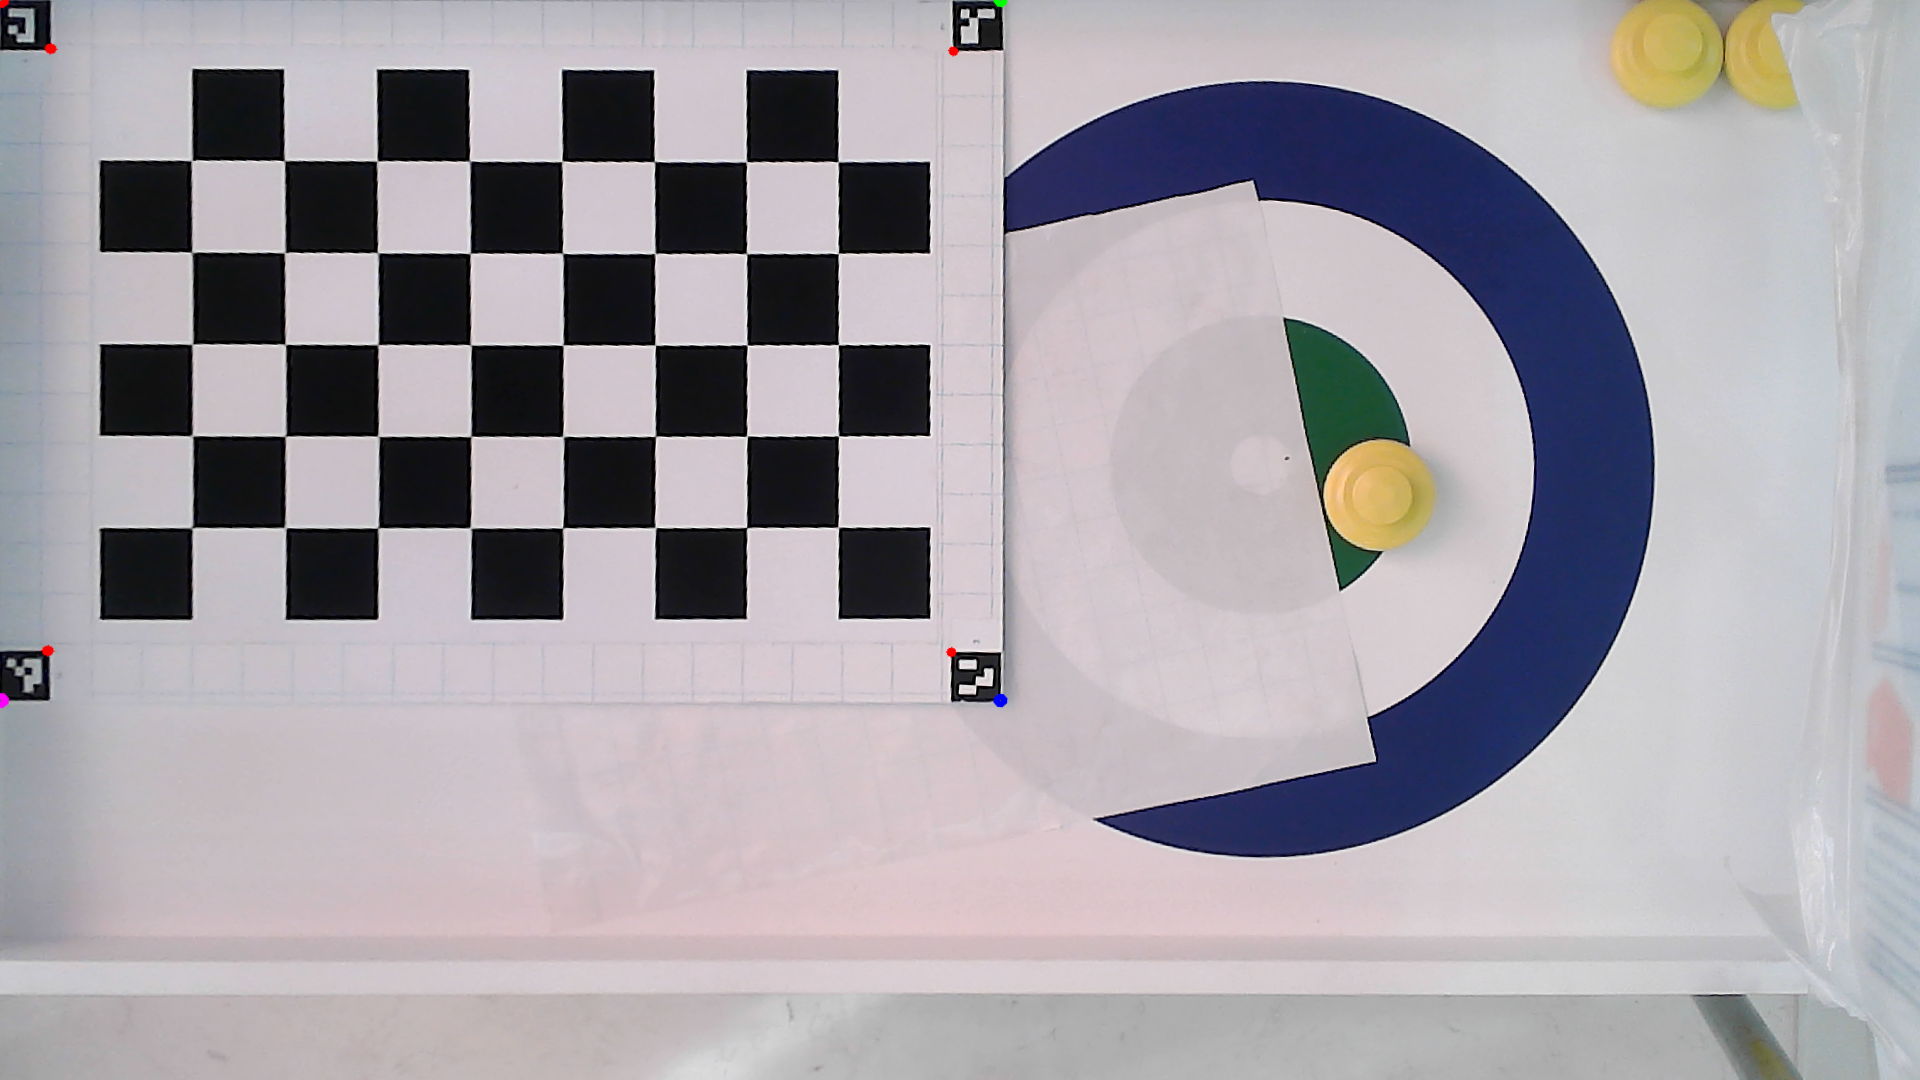
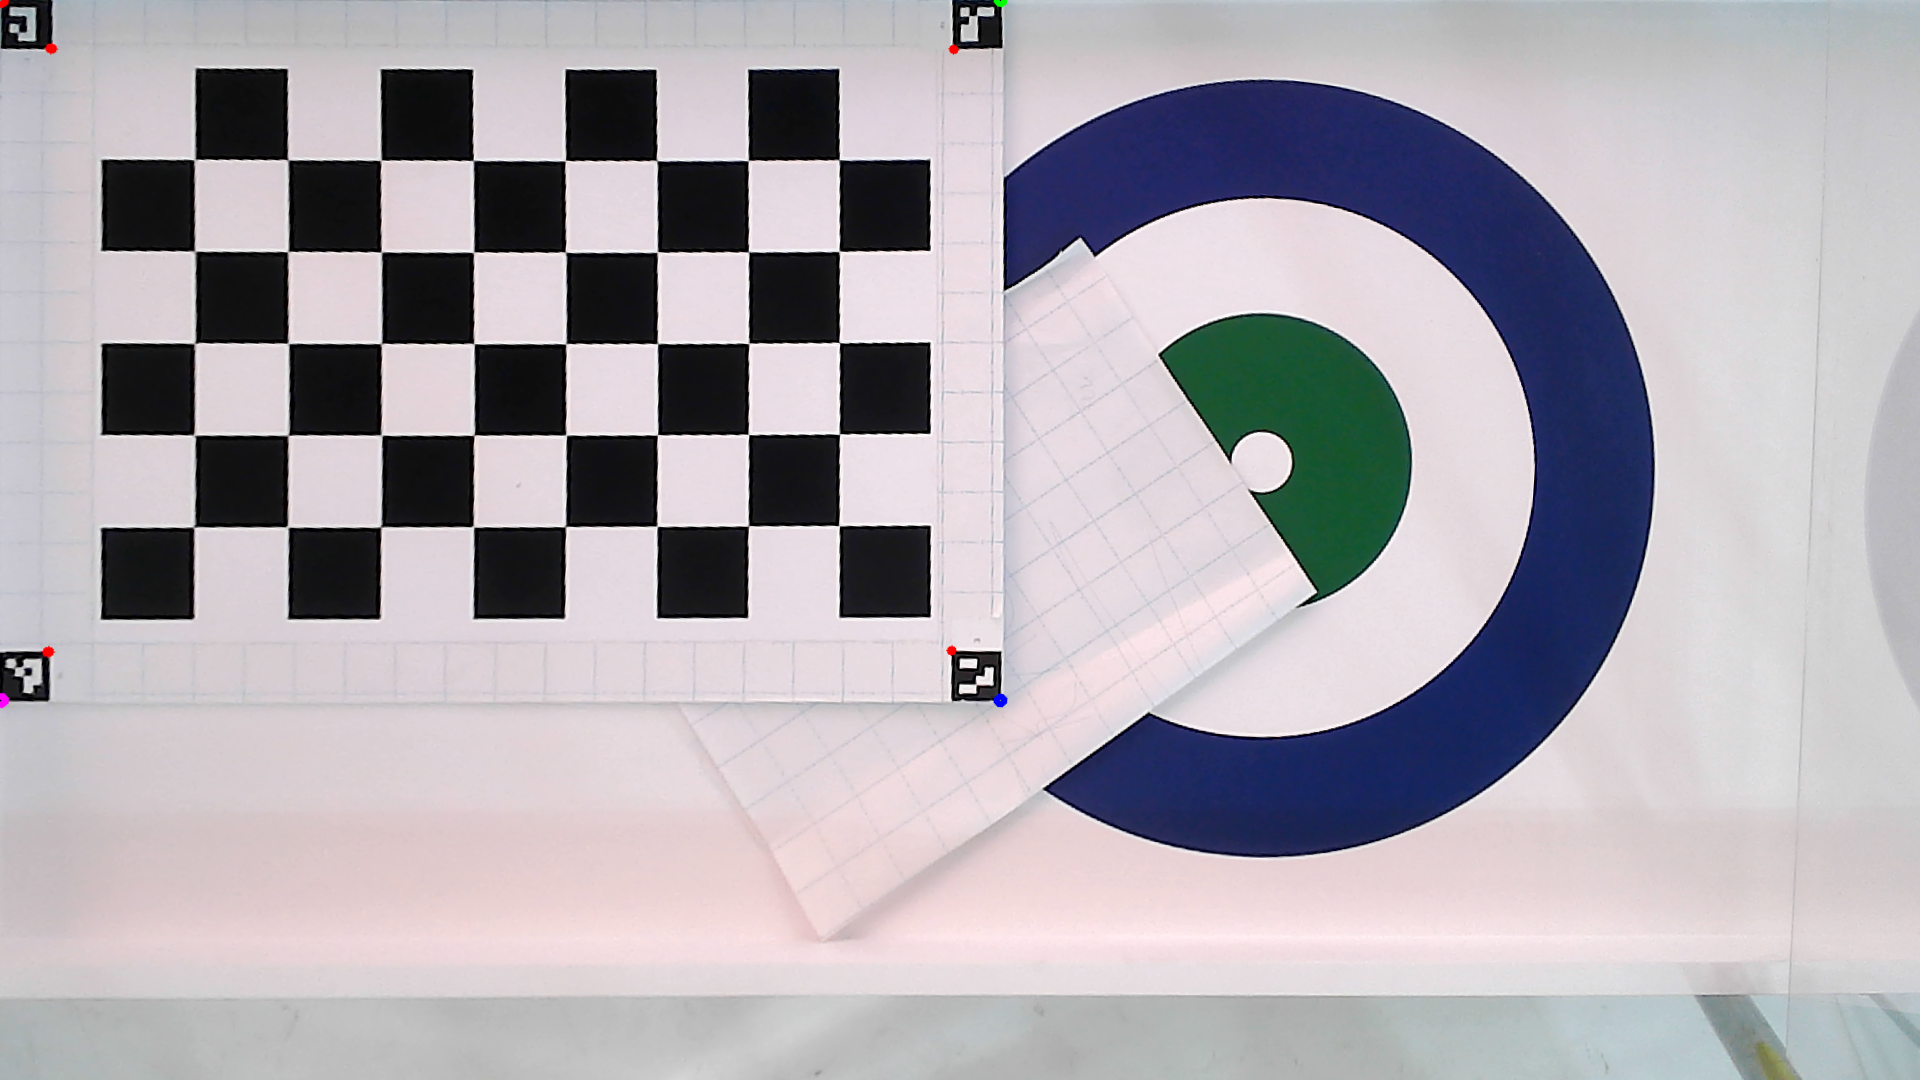
Сдали

diff --git a/OpenCV/OpenCV/Refactoring/MainWidget.py b/OpenCV/OpenCV/Refactoring/MainWidget.py
@@ -34,28 +34,68 @@ class MainWidget(QtWidgets.QWidget):
         self.game = GameThread()
 
     def send_step_to_robot(self):      
-        if self.difficulty_box.currentIndex() == 0:
-            easy_mode = True
-            hard_mode = False
-        if self.difficulty_box.currentIndex() == 1:
-            easy_mode = False
-            hard_mode = False
-        if self.difficulty_box.currentIndex() == 2:
-            easy_mode = False
-            hard_mode = True
-        step_data = self.game.get_coordinates(easy_mode, hard_mode)
-        if step_data != None:
-            self.robot.send_step(step_data)
-            print('Master: ', step_data)
-            #self.brain.draw_plt()
-        pass
+        try:
+            if self.difficulty_box.currentIndex() == 0:
+                easy_mode = True
+                hard_mode = False
+            if self.difficulty_box.currentIndex() == 1:
+                easy_mode = False
+                hard_mode = False
+            if self.difficulty_box.currentIndex() == 2:
+                easy_mode = False
+                hard_mode = True
+            step_data = self.game.get_coordinates(easy_mode, hard_mode)
+            if step_data != None:
+                self.robot.send_step(step_data)
+                print('Master: ', step_data)
+                #self.brain.draw_plt()
+            pass
+        except Exception as e:
+            pass
+
+    def send_throw1_to_robot(self):
+        step_data = ((350, 100), (349, 1250), [2])
+        self.robot.send_step(step_data)
+        print('Master: ', step_data)
+
+    def send_throw2_to_robot(self):
+        step_data = ((470, 100), (469, 1250), [2])
+        self.robot.send_step(step_data)
+        print('Master: ', step_data)
+
+    def send_throw3_to_robot(self):
+        step_data = ((590, 100), (549, 1250), [2])
+        self.robot.send_step(step_data)
+        print('Master: ', step_data)
 
     def __init_controls(self):
         self.make_step_button = QtWidgets.QPushButton("АВТОХОД")
-        self.make_step_button.setFixedSize(500, 500)
+        self.make_step_button.setFixedSize(400, 400)
         self.make_step_button.setFont(QtGui.QFont(self.fonts, 16))
         self.make_step_button.clicked.connect(self.send_step_to_robot)
         pass
+        self.throw1_button = QtWidgets.QPushButton("ЧИСТКА1")
+        self.throw1_button.setFixedSize(100, 100)
+        self.throw1_button.setFont(QtGui.QFont(self.fonts, 16))
+        self.throw1_button.clicked.connect(self.send_throw1_to_robot)
+        pass
+        self.throw2_button = QtWidgets.QPushButton("ЧИСТКА2")
+        self.throw2_button.setFixedSize(100, 100)
+        self.throw2_button.setFont(QtGui.QFont(self.fonts, 16))
+        self.throw2_button.clicked.connect(self.send_throw2_to_robot)
+        pass
+        self.throw3_button = QtWidgets.QPushButton("ЧИСТКА3")
+        self.throw3_button.setFixedSize(100, 100)
+        self.throw3_button.setFont(QtGui.QFont(self.fonts, 16))
+        self.throw3_button.clicked.connect(self.send_throw3_to_robot)
+        pass
+        self.throw_group = QtWidgets.QGroupBox("ЧИСТКА")
+        self.throw_group_layout = QtWidgets.QHBoxLayout()
+        self.throw_group_layout.addWidget(self.throw1_button)
+        self.throw_group_layout.addWidget(self.throw2_button)
+        self.throw_group_layout.addWidget(self.throw3_button)
+        self.throw_group.setLayout(self.throw_group_layout)
+
 
     def __init_score(self): 
         self.score_group = QtWidgets.QGroupBox("Счёт")
@@ -94,6 +134,7 @@ class MainWidget(QtWidgets.QWidget):
         
         self.right_widget.addWidget(self.score_group)
         self.right_widget.addWidget(self.make_step_button)
+        self.right_widget.addWidget(self.throw_group)
         self.right_widget.addWidget(self.difficulty_group)
 
         self.right_widget.setSpacing (0)

diff --git a/OpenCV/OpenCV/Refactoring/GameThread.py b/OpenCV/OpenCV/Refactoring/GameThread.py
@@ -25,7 +25,7 @@ class GameThread(QtCore.QObject):
         self.last_stop_coordinates = result[1]
         if (result[2][0] == 0): self.last_color = (0,255,0)
         if (result[2][0] == 1): self.last_color = (0,255,255)
-        if (result[2][0] == 1): self.last_color = (0,0,255)
+        if (result[2][0] == 2): self.last_color = (0,0,255)
         return result
 
     def __init_game_parameters(self):
@@ -37,8 +37,8 @@ class GameThread(QtCore.QObject):
         self.last_start_coordinates = (0, 0)
         self.last_stop_coordinates = (0, 0)
         self.last_color = (0, 255, 0)
-        center = (470, 1250)
-
+        center = (465, 1260)
+        self.drawcenter =(1260, 465)
         radius_white_Circle = 0.1
         radius_green_Circle = 150
         radius_blue_Ring = 390
@@ -92,29 +92,39 @@ class GameThread(QtCore.QObject):
             self.Vis_RED.RED_ROCKS = data_RED
             self.Vis_RED.YELL_ROCKS = data_YELL
 
-            print("RED") 
-            print(self.Vis_RED.RED_ROCKS)  
-            print("YELL")  
-            print(self.Vis_RED.YELL_ROCKS)
+            # print("RED") 
+            # print(self.Vis_RED.RED_ROCKS)  
+            # print("YELL")  
+            # print(self.Vis_RED.YELL_ROCKS)
 
             if type(data_RED) == int:
-                    print(self.Red_scope.point)
+                 pass
+                    # print(self.Red_scope.point)
             else:
-                    print(self.Red_scope.point)
+                    # print(self.Red_scope.point)
                     for quantity in range (len(data_RED)):                                           # ВНИМАНИЕ!!!!!! КОСТЫЛЬ РАЗМЕРОМ С МЛЕЧНЫЙ ПУТЬ!!!!!!! 
                         self.Red_scope.Which_field(self.Red_scope.iteration_of_piptics(data_RED, quantity))
                     #print(Red_scope.point)
 
             if type(data_YELL) == int:
-                    print(self.Yellow_scope.point)
+                 pass
+                    # print(self.Yellow_scope.point)
             else:
-                    print(self.Yellow_scope.point)
+                    # print(self.Yellow_scope.point)
                     for quantity in range (len(data_YELL)):                                           # ВНИМАНИЕ!!!!!! КОСТЫЛЬ РАЗМЕРОМ С МЛЕЧНЫЙ ПУТЬ!!!!!!! 
                         self.Yellow_scope.Which_field(self.Yellow_scope.iteration_of_piptics(data_YELL, quantity))
                     #print(Blue_scope.point)
             start = (self.last_start_coordinates[1], self.last_start_coordinates[0])
             stop = (self.last_stop_coordinates[1], self.last_stop_coordinates[0])
+            cv2.circle(warped_image, self.drawcenter, 150, (0,255,0), 2)
+            cv2.circle(warped_image, self.drawcenter, 270, (0,255,0), 2)
+            cv2.circle(warped_image, self.drawcenter, 390, (0,255,0), 2)
             cv2.line(warped_image, start, stop, self.last_color, 8)
+            cv2.line(warped_image, (300, 0), (300, 2000), self.last_color, 8)
+            
+            cv2.circle(warped_image, (100, 470), 55, (0,0,255), 2)
+            cv2.circle(warped_image, (100, 350), 55, (0,0,255), 2)
+            cv2.circle(warped_image, (100, 590), 55, (0,0,255), 2)
             self.processed_image_signal.emit(warped_image)
             self.score_data.emit(str([self.Yellow_scope.point, self.Red_scope.point]))
     def __del__(self):

diff --git a/OpenCV/OpenCV/Refactoring/Game_processor copy.py b/OpenCV/OpenCV/Refactoring/Game_processor copy.py
@@ -108,9 +108,6 @@ class Brain():
                 sector_type = 3
             else:
                 sector_type = 0
-            #Камни в мешающей зоне
-            # if (670> data[i][1] >270) and (850> data[i][2] >550):
-            #     sector_type = 10
 
             sector_number = int(angle // self.Field.sector_size)
             data[i].append(sector_type)
@@ -131,7 +128,7 @@ class Brain():
                         count_human += 1
                     elif self.data[i][0] == 2:
                         count_robot += 1
-
+        # print (count_robot, count_human) 
         return [count_human, count_robot]
 
     def __variants_searching(self):
@@ -141,14 +138,14 @@ class Brain():
         for i in range(len(data)):
             if (data[i][0] == 1) and (data[i][3] == 3):
                 surround = self.__near_field_check(self.destroy_rad, i)
-                coef = surround[0] - surround[1]
+                coef = surround[0] - surround[1]*3
                 solution_matrix.append(
                     [10 + coef, 2, [data[i][1], data[i][2]]])
             elif (data[i][0] == 1) and (data[i][3] != 0):
                 # print(self.embedded_sectors)
                 if self.embedded_sectors[data[i][3]-1][data[i][4]] == 1:
                     surround = self.__near_field_check(self.destroy_rad, i)
-                    if surround[0] > 0:
+                    if surround[1] > 1:
                         coef = surround[0] - surround[1]
                         solution_matrix.append(
                             [self.fast_priority[data[i][3]-1][data[i][4]] + coef, 2, [data[i][1], data[i][2]]])
@@ -184,7 +181,7 @@ class Brain():
 
     def __path_searching(self):
         solution_matrix = self.__variants_searching()
-        print(solution_matrix)
+        # print(solution_matrix)
         path = []
         for variant in solution_matrix:
             x2, y2 = variant[2]

diff --git a/OpenCV/OpenCV/Refactoring/OpenCV_Photo_test.py b/OpenCV/OpenCV/Refactoring/OpenCV_Photo_test.py
@@ -23,11 +23,16 @@ upper_green = (20, 255, 255) """
 # Определение диапазона нужного цвета в HSV
 lower_green = (140, 100, 0)
 upper_green = (255, 255, 160)
+# Yelow hsv
+lower_green = (15, 60, 100)  # (90, 70, 20)
+upper_green = (100, 255, 255)  # (120, 220, 100)
 
+#reg rgb
+# lower_green = (100, 0, 0)
+# upper_green = (255, 100, 100)
+# # Преобразование изображения в цветовую модель HSV
 
-# Преобразование изображения в цветовую модель HSV
-
-hsv = cv.cvtColor(img, cv.COLOR_BGR2RGB)
+hsv = cv.cvtColor(img, cv.COLOR_BGR2HSV)
 
 # Создание маски для зеленого цвета
 mask = cv.inRange(hsv, lower_green, upper_green)
@@ -68,7 +73,7 @@ def main():
     cv.imshow("Mask", mask)
 
     cv.namedWindow('image')
-    cv.setMouseCallback("image", mouse_callback)
+    cv.setMouseCallback("Mask", mouse_callback)
 
     print_()
 

diff --git a/OpenCV/OpenCV/Refactoring/Camera.py b/OpenCV/OpenCV/Refactoring/Camera.py
@@ -129,10 +129,11 @@ class Camera:
         camera.set(cv2.CAP_PROP_FRAME_HEIGHT, 1080)
         camera.set(cv2.CAP_PROP_AUTOFOCUS, 0)  # выключаем автофокус
         camera.set(cv2.CAP_PROP_FOCUS, 190)  # устанавливаем фокус на 50 см
+        #camera.set(cv2.CAP_PROP_EXPOSURE, -5)
         print('Warming up the camera')
         for i in range(10):
             print('/|\\-'[i % 4]+'\r', end='')
-            _, frame = camera.read()
+            #_, frame = camera.read()
             cv2.waitKey(5)
         return camera
 

diff --git a/OpenCV/OpenCV/Refactoring/settings.py b/OpenCV/OpenCV/Refactoring/settings.py
@@ -54,12 +54,15 @@ red_upper = [15, 255, 255]
 blue_lower = (20, 70, 200)  # (90, 70, 20)
 blue_upper = (25, 180, 255)  # (120, 220, 100)
 yell_lower = [15, 60, 100]  # (90, 70, 20)
-yell_upper = [185, 255, 255]  # (120, 220, 100)
+yell_upper = [100, 255, 255]  # (120, 220, 100)
 
-red_lower_RGB = [70, 0, 0]
+red_lower_RGB = [100, 0, 0]
 red_upper_RGB = [255, 100, 100]  
 yell_lower_RGB = [140, 100, 0]  
 yell_upper_RGB = [255, 255, 160]  
+
+
+#
 
 # lower_green = (140, 100, 0)
 # upper_green = (255, 255, 160)

diff --git a/OpenCV/OpenCV/Refactoring/Comp_vision.py b/OpenCV/OpenCV/Refactoring/Comp_vision.py
@@ -38,7 +38,7 @@ class Vision():
         self.upper = COLOR.upper
         self.count = 0
         self.param1 = 1
-        self.param2 = 0.29  # 0.43
+        self.param2 = 0.26  # 0.43
         self.RED_ROCKS = []
         self.YELL_ROCKS = []
         #self.LR = Detecter()

diff --git a/OpenCV/OpenCV/Refactoring/Main_Game.py b/OpenCV/OpenCV/Refactoring/Main_Game.py
@@ -28,7 +28,7 @@ calib_list = []
 
 while True:
     frame = Cap.get_image()
-    #cv2.imshow('frame', frame)
+    cv2.imshow('frame', frame)
 
     key = cv2.waitKey(1)
     if key == ord('q'):
